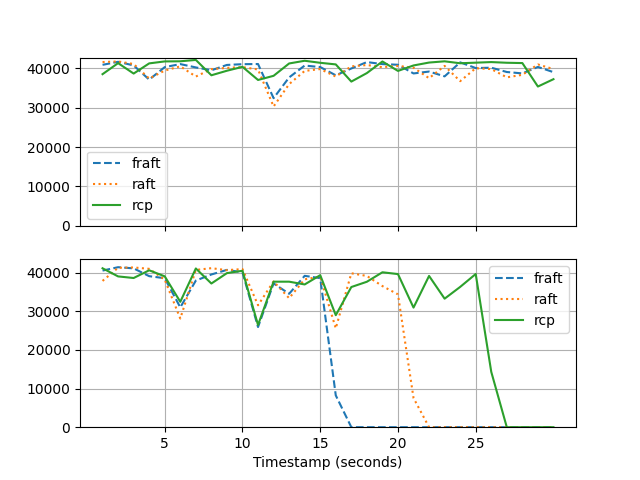
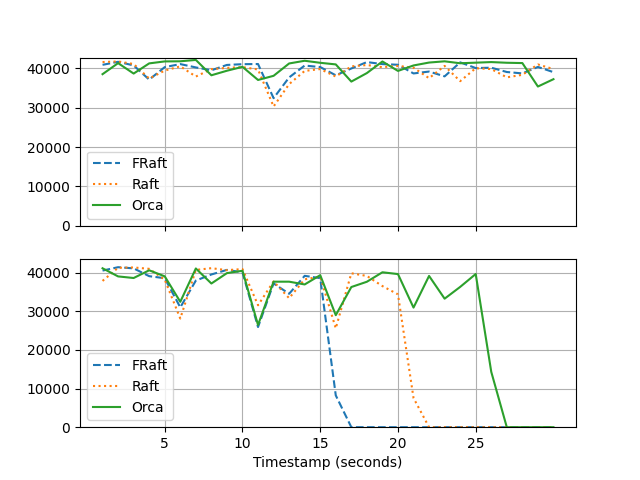
rename project in plots

diff --git a/experiment/output/process_output.py b/experiment/output/process_output.py
@@ -159,7 +159,7 @@ def plot_batch(data, output_file="", log=False):
     ax1.set_ylabel("Average Throughput (tps)")
     ax1.set_ylim(bottom=0)
     ax1.grid(True)
-    ax1.legend()
+    ax1.legend(loc="lower right")
     
     # Show latency data
     for key, data in batch_latency_data.items():
@@ -172,7 +172,7 @@ def plot_batch(data, output_file="", log=False):
     ax2.set_ylabel("Median Latency (ms)")
     ax2.set_ylim(bottom=0)
     ax2.grid(True)
-    ax2.legend()
+    ax2.legend(loc="upper left")
 
     if output_file != "":
         plt.savefig(output_file)
@@ -207,7 +207,12 @@ def plot_failure(data, failure, axes, tick=0, K="all", smoothing=False, color_K=
         if smoothing:
             y = smooth(y, window_size=5)
 
-        label = datum["protocol"]
+        label = datum["protocol"].capitalize()
+        if label == "Fraft":
+            label = "FRaft"
+        if label == "Rcp":
+            label = "Orca"
+
         if color_K:
             label += f"(K={datum['K']})"
 
@@ -311,17 +316,17 @@ if __name__ == "__main__":
     # plot_batch(G2_batch_data, output_file="output/plots/batch_g2")
     # # plot_batch(G2_batch_data, output_file="output/plots/batch_g2_log", log=True)
 
-    # # ==================================================
-    # # Plot NG Failures
-    # # ==================================================
+    # ==================================================
+    # Plot NG Failures
+    # ==================================================
 
     # fig, (ax1, ax2) = plt.subplots(2, 1, sharex=True)
 
-    # NG_failure_data = read_output_folders([
-    #     "output/failure_NG/run1",
-    #     "output/failure_NG/run2",
-    #     "output/failure_NG/run3",
-    #     ], EXPERIMENT_TIME_NG)
+    NG_failure_data = read_output_folders([
+        "output/failure_NG/run1",
+        "output/failure_NG/run2",
+        "output/failure_NG/run3",
+        ], EXPERIMENT_TIME_NG)
 
     # plot_failure(NG_failure_data, "None", ax1, smoothing=SMOOTH_DATA)
     # plot_failure(NG_failure_data, "LF", ax2, smoothing=SMOOTH_DATA)
@@ -337,7 +342,7 @@ if __name__ == "__main__":
     # plt.show()
 
 
-    # fig, (ax1, ax2, ax3) = plt.subplots(3, 1, sharex=True)
+    # fig, (ax1, ax2, ax3) = plt.subplots(3, 1, sharey=True, sharex=True, figsize=(6.4, 5.6))
     
     # plot_failure(NG_failure_data, "RF", ax1, smoothing=SMOOTH_DATA)
     # plot_failure(NG_failure_data, "ROF", ax2, smoothing=SMOOTH_DATA)
@@ -346,17 +351,17 @@ if __name__ == "__main__":
     # ax3.set_xlabel("Timestamp (seconds)")
     # handles, labels = ax1.get_legend_handles_labels()
 
-    # ax1.legend()
-    # ax2.legend()
-    # ax3.legend()
-    # # fig.legend(handles, labels, loc="lower center", ncol=3)
-    # # plt.subplots_adjust(bottom=0.2)
+    # # ax1.legend(loc="lower left")
+    # # ax2.legend(loc="lower left")
+    # # ax3.legend(loc="lower left")
+    # fig.legend(handles, labels, loc="lower center", ncol=3)
+    # plt.subplots_adjust(bottom=0.2)
     # plt.savefig("output/plots/failure_ng_others")
     # plt.show()
 
-    # # ==================================================
-    # # Plot G1 Failures
-    # # ==================================================
+    # ==================================================
+    # Plot G1 Failures
+    # ==================================================
 
     # fig, (ax1, ax2) = plt.subplots(2, 1, sharex=True)
 
@@ -373,15 +378,15 @@ if __name__ == "__main__":
     # handles, labels = ax1.get_legend_handles_labels()
 
     # ax1.legend()
-    # ax2.legend()
+    # ax2.legend(loc="lower left")
     # # fig.legend(handles, labels, loc="lower center", ncol=3)
     # # plt.subplots_adjust(bottom=0.2)
     # plt.savefig("output/plots/failure_g1")
     # plt.show()
 
-    # # ==================================================
-    # # Plot G2 Failures
-    # # ==================================================
+    # ==================================================
+    # Plot G2 Failures
+    # ==================================================
 
     # fig, (ax1, ax2) = plt.subplots(2, 1, sharex=True)
 
@@ -398,7 +403,7 @@ if __name__ == "__main__":
     # handles, labels = ax1.get_legend_handles_labels()
 
     # ax1.legend()
-    # ax2.legend()
+    # ax2.legend(loc="lower left")
     # # fig.legend(handles, labels, loc="lower center", ncol=3)
     # # plt.subplots_adjust(bottom=0.2)
     # plt.savefig("output/plots/failure_g2")
@@ -416,11 +421,11 @@ if __name__ == "__main__":
 
     # plot_N(N_data, "None", title="N", output_file="output/plots/n_no_failure")
 
-    # ==================================================
-    # Plot NG K
-    # ==================================================
+    # # ==================================================
+    # # Plot NG K
+    # # ==================================================
 
-    fig, (ax1, ax2) = plt.subplots(2, 1, sharex=True, figsize=(7, 5))
+    fig, (ax1, ax2) = plt.subplots(2, 1, sharex=True, figsize=(6.4, 4.8))
 
     K_data = read_output_folders([
         "output/K/run1",
@@ -436,13 +441,13 @@ if __name__ == "__main__":
     handles[1:-1] = [handles[5], handles[1], handles[6], handles[2], handles[7], handles[3], handles[8], handles[4]]
     labels[1:-1] = [labels[5], labels[1], labels[6], labels[2], labels[7], labels[3], labels[8], labels[4]]
 
-    fig.legend(handles, labels, loc="lower center", ncol=5)
+    fig.legend(handles, labels, loc="lower center", ncol=5, prop={'size': 9})
     plt.subplots_adjust(bottom=0.28)
     plt.savefig("output/plots/k_others")
     plt.show()
 
 
-    fig, (ax1, ax2, ax3, ax4, ax5) = plt.subplots(5, 1, sharey=True, sharex=True, figsize=(7, 7))
+    fig, (ax1, ax2, ax3, ax4, ax5) = plt.subplots(5, 1, sharey=True, sharex=True, figsize=(6.4, 7.2))
 
     plot_failure(K_data, "LF", ax1, K="1", tick=5, smoothing=SMOOTH_DATA, color_K=True)
     plot_failure(K_data, "LF", ax2, K="2", tick=5, smoothing=SMOOTH_DATA, color_K=True)
@@ -453,7 +458,7 @@ if __name__ == "__main__":
     ax5.set_xlabel("Timestamp (seconds)")
 
     # fig.text(0.02, 0.55, 'Throughput (tps)', va='center', rotation='vertical')
-    fig.legend(loc="lower center", ncol=5)
-    plt.subplots_adjust(bottom=0.2)
+    fig.legend(loc="lower center", ncol=5, prop={'size': 9})
+    plt.subplots_adjust(top=0.92, bottom=0.18)
     plt.savefig("output/plots/k_leader_failure")
     plt.show()
